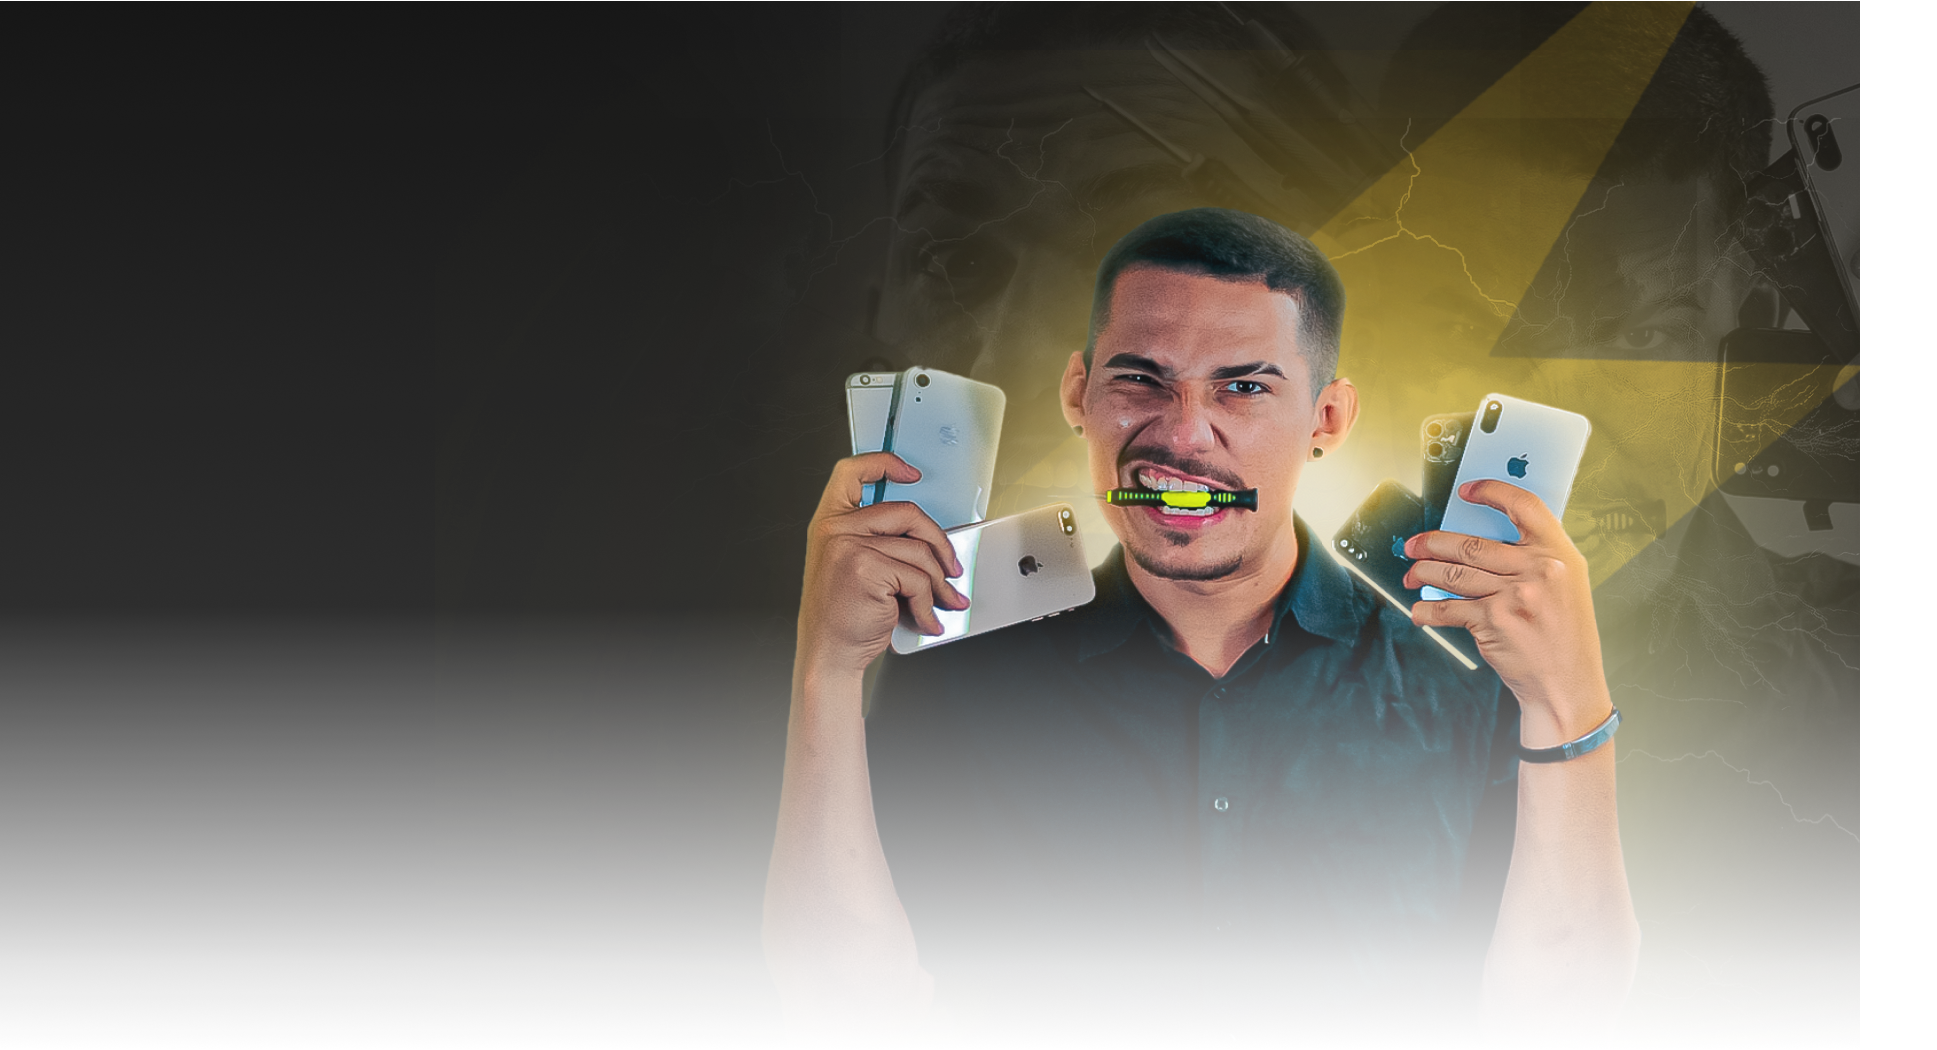
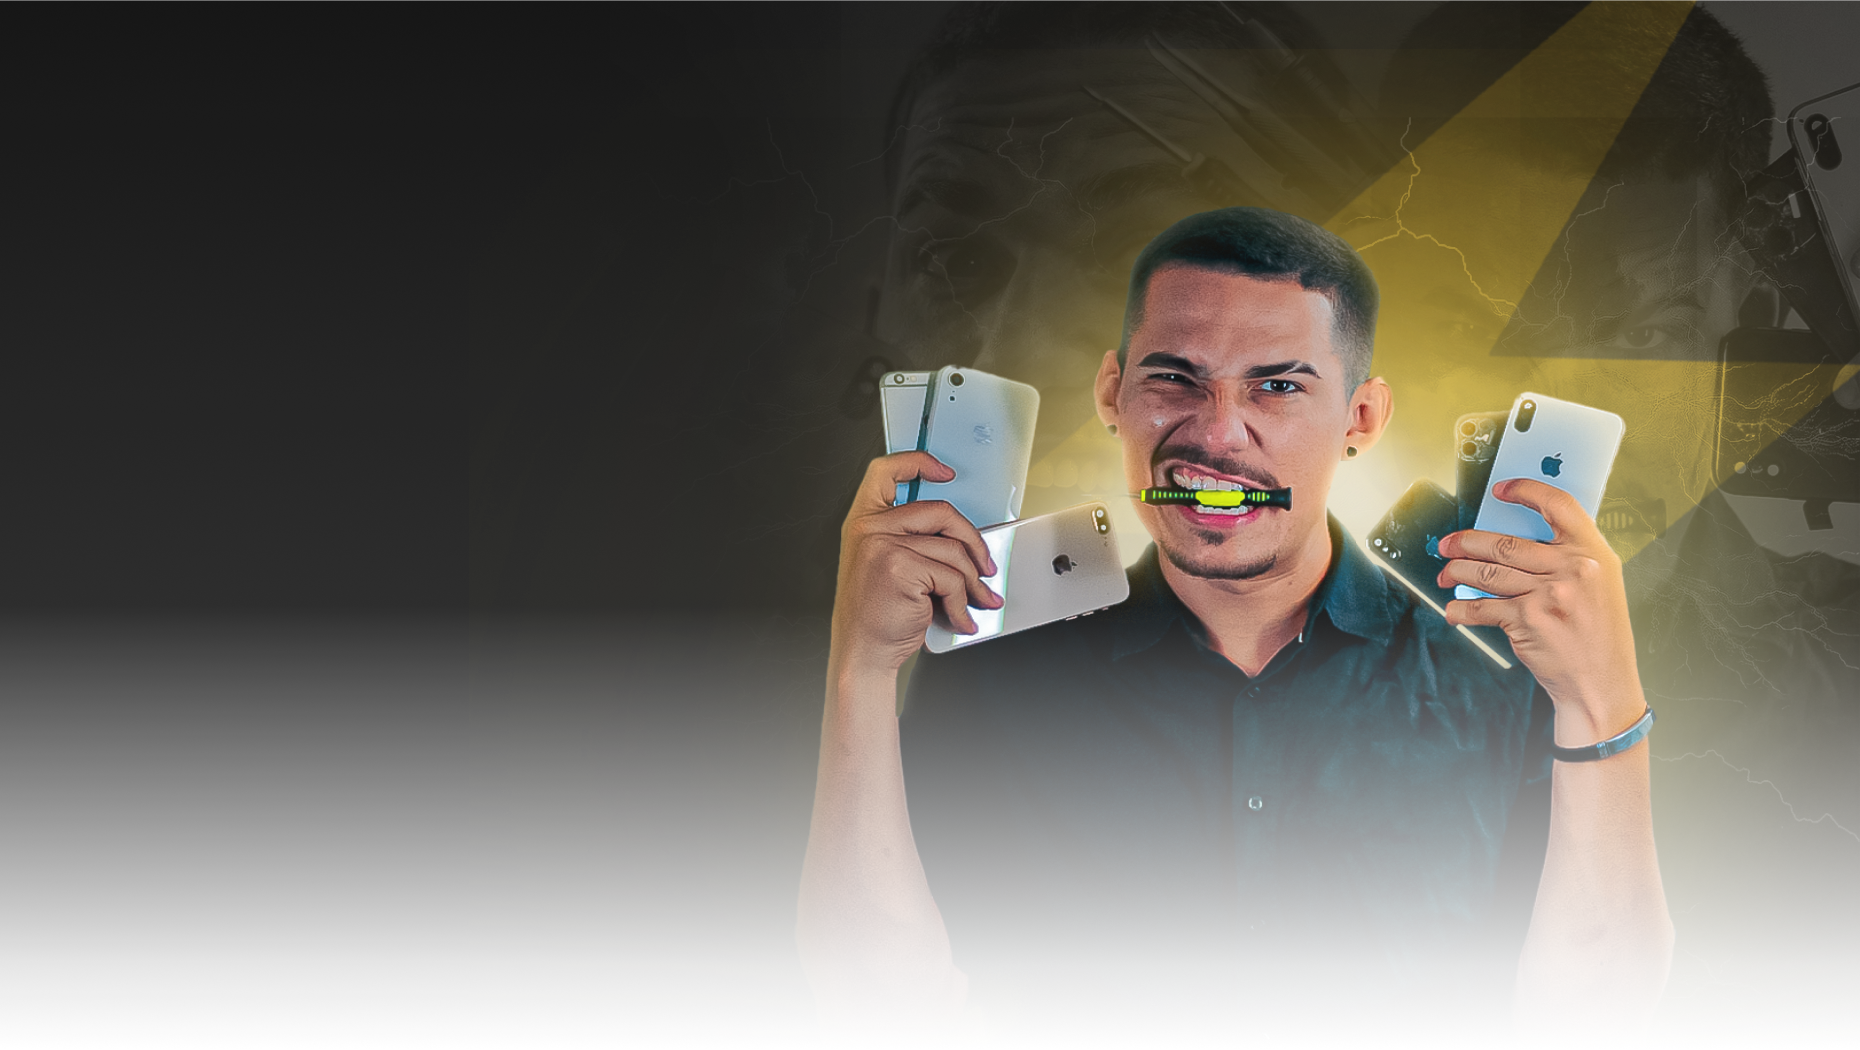
ajustado

Changed region(s): [[0.3742, 0.0, 1.0, 0.9448]]

diff --git a/index.html b/index.html
@@ -15,10 +15,10 @@
     
     <section 
       class="w-full md:h-[100vh] pt-20 bg-bg">
-      <div class="w-full md:h-full bg-[url('/public/images/background.png')] md:bg-[url('/public/images/background.png')] bg-no-repeat md:bg-cover md:bg-center bg-contain bg-right flex justify-start md:justify-center items-start md:items-center py-10 pl-4 pr-60 md:p-8 -space-x-60">
+      <div class="w-full md:h-full sm:bg-[url('/public/images/background.png')] md:bg-[url('/public/images/background-top.png')] bg-[url('/public/images/background-top.png')] bg-no-repeat bg-cover md:bg-center  bg-right flex justify-start md:justify-center items-start md:items-center py-10 pl-4 pr-60 md:p-8 -space-x-60">
         <div class="z-10">
           <div class="">
-            <p class="font-bold lg:text-xl 2xl:text-5xl text-base text-white md:leading-loose">
+            <p class="font-bold text-base md:text-2xl lg:text-5xl text-white leading-loose">
               ACESSE A <bold class="text-primary">MAIOR</bold> <br>
               COMUNIDADE DE <br>
               <bold class="text-primary">TÉCNICOS DO BRASIL</bold>
@@ -34,17 +34,30 @@
             </button>
           </a>
         </div>
-        <!-- <div class="relative w-full max-w-5xl mx-auto hidden md:block">
+        <div class="relative w-full max-w-5xl min-w-80 mx-auto hidden md:block">
           <img src="/public/images/hero.png" alt="Técnico segurando celulares" class="w-full h-auto" loading="eager">
-        </div> -->
+        </div>
       </div>
       
       <!-- Banner escuro -->
-      <div class="w-full h-40 border-2 border-red bg-bg">
+      <div class="w-full h-40 bg-bg">
 
       </div>
     </section>
     <!-- Section inicial -->
+
+    <section class="text-center w-full bg-bg text-white py-8 px-4 flex justify-center flex-col md:flex-wrap wrap gap-4 items-center md:justify-between">
+      <div class="max-w-lg">
+        <p class="font-semibold md:text-4xl md:text-left">Não importa se você está começando <span class="text-primary">do zero</span> ou se já tenha alguma experiência.</p>
+      </div>
+
+      <div class="max-w-lg flex items-end flex-col gap-4">
+        <p class="text-right">Vou te ensinar como se tornar o <span class="text-primary">melhor técnico da sua região</span> e faturar muita grana pra ter sua <span class="text-primary">liberdade financeira.</span></p>
+        <button class="btn-primary bg-primary hidden md:block text-black">
+          Sim! Quero ter acesso
+        </button>
+      </div>
+    </section>
     <script type="module" src="/src/main.ts" defer></script>
   </body>
 </html>

diff --git a/src/styles/globals.css b/src/styles/globals.css
@@ -18,5 +18,5 @@
 }
 
 .btn-primary {
-  @apply rounded-lg py-2 px-4 md:p-6 uppercase focus:ring ring-primary font-extrabold text-xs md:text-base hover:transition-all hover:scale-105 duration-200
+  @apply rounded-lg px-4 md:px-4 md:py-4 uppercase focus:ring ring-primary font-extrabold text-xs md:text-base hover:transition-all hover:scale-105 duration-200 py-0
 }

diff --git a/src/main.ts b/src/main.ts
@@ -1,6 +1,7 @@
 import './styles/globals.css';
 
 import '@fontsource/montserrat/800.css'; 
+import '@fontsource/montserrat/600.css'; 
 import '@fontsource/montserrat/500.css'; 
 import '@fontsource/montserrat';
 
